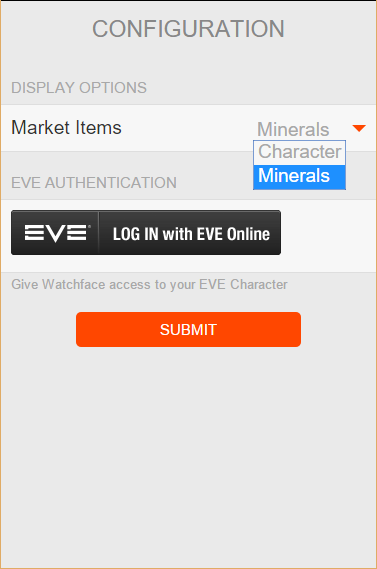
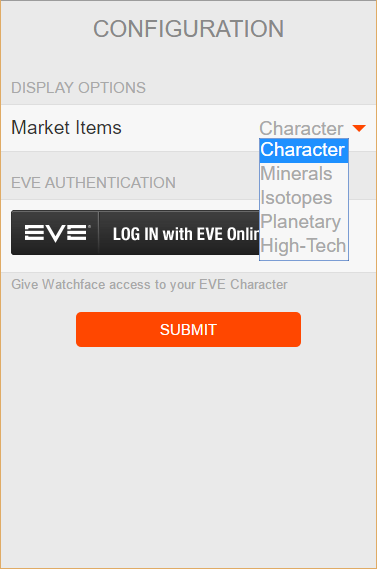
Update README

diff --git a/README.md b/README.md
@@ -17,11 +17,14 @@ EVE Online CREST API based Pebble Watchface
         - PLEX
         - Skill Injectors/Extractors
     - Minerals
+    - Isotopes
+    - Planetary
+    - High-Tech
 - Character (requires CREST authorization)
     - Name
     - Location 
     
-Collects market information daily.
+Collects latest market information as it becomes available.
 
 Updates server info or character location (if online) and cycles through market items either half hourly or at a flick of the wrist (y-axis acc.).
 
